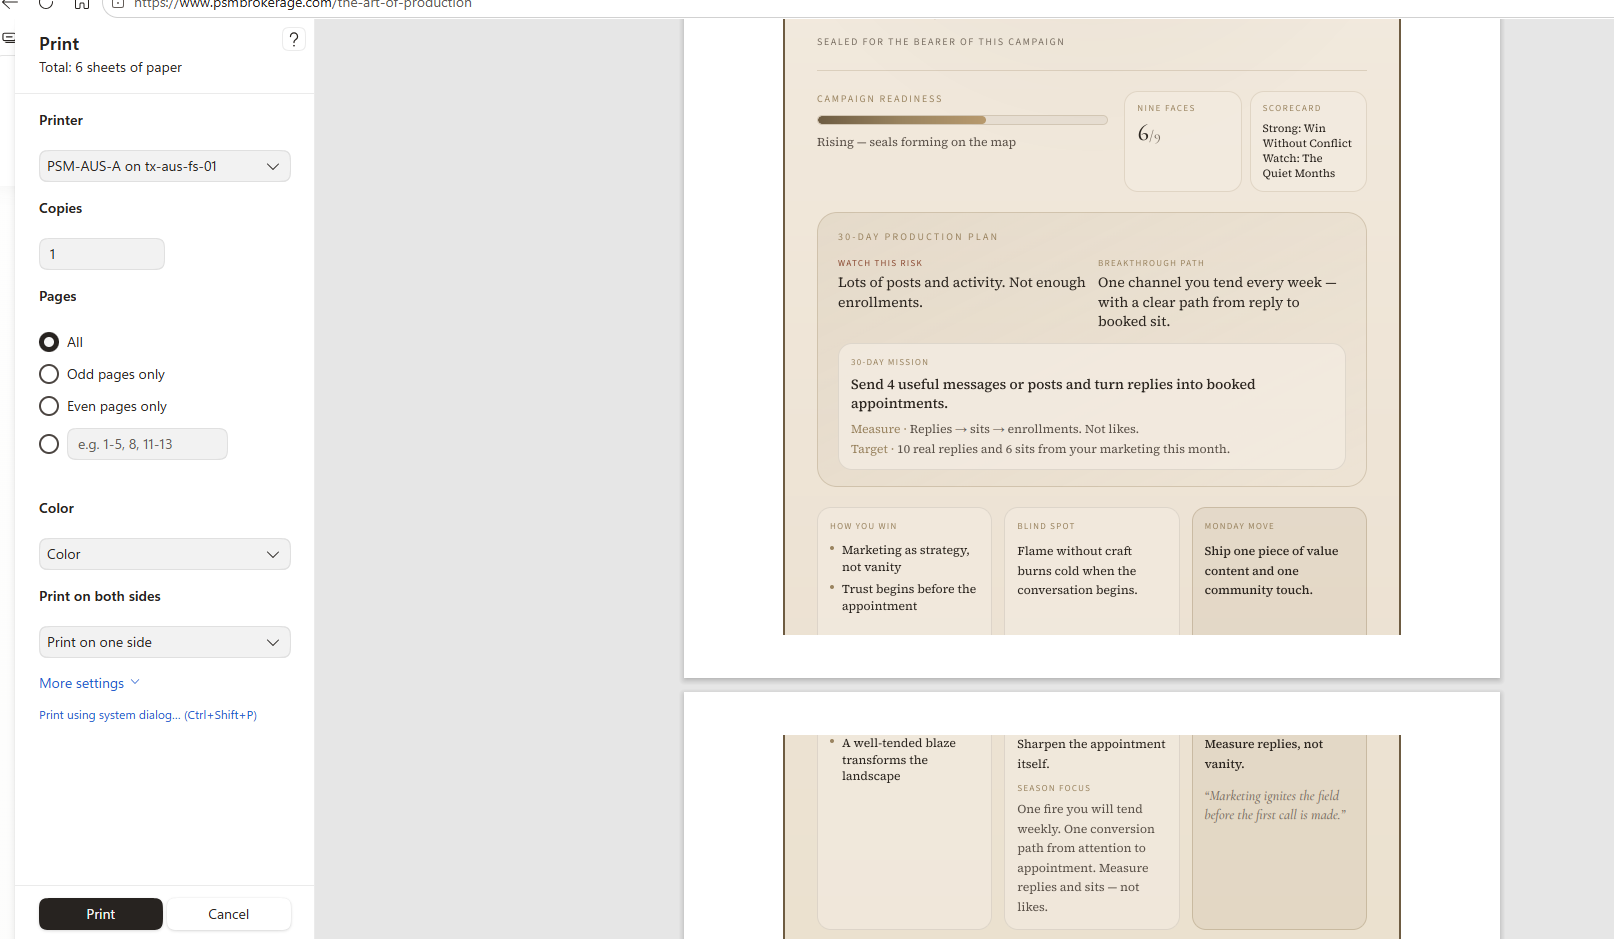
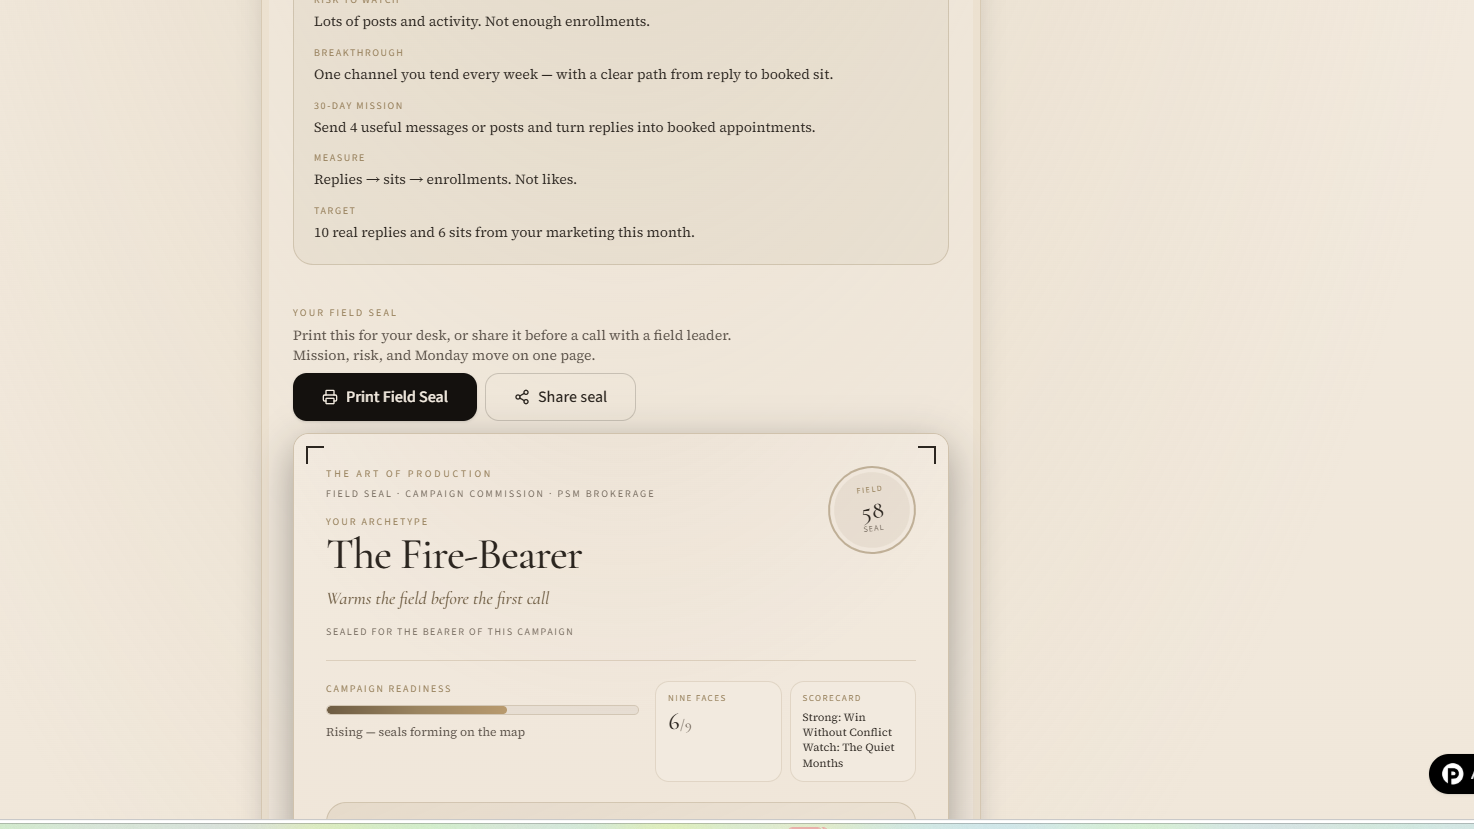
feat: identity first on dossier + gold commission emblem
- Horoscope-style field reading moves to top of dossier
- Field Seal follows identity; forecast/readiness after
- Score number removed from seal; gold star commission emblem
- Soft "field sealed / faces known" language instead of grades

diff --git a/src/routes/dossier.tsx b/src/routes/dossier.tsx
@@ -92,23 +92,91 @@ function DossierPageInner() {
           <SectionKicker>Field dossier · sealed</SectionKicker>
           <h1 className="mt-2 font-display text-3xl text-charcoal sm:text-4xl">
             {lead?.name
-              ? `${lead.name.split(" ")[0]}, the field is marked`
-              : "The field is marked"}
+              ? `${lead.name.split(" ")[0]}, your reading is ready`
+              : "Your reading is ready"}
           </h1>
           <p className="mt-2 font-body text-charcoal-muted leading-relaxed max-w-xl">
-            You walked the path. Seals pressed. Nine faces known. What remains is
-            not another checklist — it is who you stand with when the season
-            opens.
+            First — who you are on the field. Then your Field Seal. Then how to
+            win the next thirty days with allies who already know the ground.
           </p>
         </div>
 
-        <ReadinessPlate
-          score={readiness.score}
-          label={readiness.label}
-          parts={readiness.parts}
-        />
+        {/* Archetype "horoscope" — identity magic first */}
+        <section className="ink-wash rounded-xl border border-brass/35 px-6 py-10 text-center shadow-[var(--shadow-plate)] sm:px-10">
+          <p className="font-ui text-[11px] uppercase tracking-[0.28em] text-brass-bright/90">
+            Your field reading
+          </p>
+          <h2 className="mt-3 font-display text-4xl text-parchment sm:text-5xl">
+            {arch.name}
+          </h2>
+          <p className="mt-3 font-display text-lg italic text-brass-bright/90">
+            {arch.epithet}
+          </p>
+          <p className="mx-auto mt-6 max-w-lg font-body text-parchment/70 leading-relaxed text-base sm:text-lg">
+            {arch.fieldReading}
+          </p>
+          <div className="mx-auto mt-8 max-w-lg space-y-4 text-left">
+            <div className="rounded-lg border border-parchment/10 bg-parchment/[0.04] px-4 py-3">
+              <p className="font-ui text-[10px] uppercase tracking-[0.2em] text-brass-bright/80">
+                At your best
+              </p>
+              <p className="mt-1 font-body text-sm text-parchment/65 leading-relaxed">
+                {arch.atYourBest}
+              </p>
+            </div>
+            <div className="rounded-lg border border-parchment/10 bg-parchment/[0.04] px-4 py-3">
+              <p className="font-ui text-[10px] uppercase tracking-[0.2em] text-brass-bright/80">
+                Where production leaks
+              </p>
+              <p className="mt-1 font-body text-sm text-parchment/65 leading-relaxed">
+                {arch.whenYouStruggle}
+              </p>
+            </div>
+            <div className="rounded-lg border border-brass/30 bg-brass/10 px-4 py-3">
+              <p className="font-ui text-[10px] uppercase tracking-[0.2em] text-brass-bright">
+                This season's omen
+              </p>
+              <p className="mt-1 font-body text-sm text-parchment/80 leading-relaxed">
+                {arch.seasonFocus}
+              </p>
+            </div>
+          </div>
+          <p className="mt-8 font-display text-xl italic text-brass-bright/85">
+            “{arch.seal}”
+          </p>
+        </section>
 
-        <ProductionForecastPanel forecast={arch.forecast} />
+        <div className="grid gap-4 sm:grid-cols-2">
+          <div className="rounded-xl border border-charcoal/10 bg-parchment/70 p-5">
+            <p className="font-ui text-[10px] uppercase tracking-[0.22em] text-brass">
+              Strengths on the field
+            </p>
+            <ul className="mt-3 space-y-2">
+              {arch.strengths.map((s) => (
+                <li
+                  key={s}
+                  className="font-body text-sm text-charcoal leading-snug"
+                >
+                  {s}
+                </li>
+              ))}
+            </ul>
+          </div>
+          <div className="rounded-xl border border-charcoal/10 bg-parchment/70 p-5">
+            <p className="font-ui text-[10px] uppercase tracking-[0.22em] text-brass">
+              Monday move
+            </p>
+            <p className="mt-2 font-body text-sm text-charcoal leading-relaxed">
+              {arch.mondayScript}
+            </p>
+            <p className="mt-4 font-ui text-[10px] uppercase tracking-[0.22em] text-brass">
+              Blind spot
+            </p>
+            <p className="mt-2 font-body text-sm text-charcoal-muted leading-relaxed">
+              {arch.blindSpot}
+            </p>
+          </div>
+        </div>
 
         <FieldCard
           arch={arch}
@@ -118,6 +186,14 @@ function DossierPageInner() {
           agentName={lead?.name}
           weakestChapter={scorecard.weakest}
           strongestChapter={scorecard.strongest}
+        />
+
+        <ProductionForecastPanel forecast={arch.forecast} />
+
+        <ReadinessPlate
+          score={readiness.score}
+          label={readiness.label}
+          parts={readiness.parts}
         />
 
         {/* War council CTA — primary conversion */}
@@ -192,79 +268,6 @@ function DossierPageInner() {
             </a>
           </p>
         </section>
-
-        <section className="ink-wash rounded-xl border border-parchment/10 px-6 py-10 text-center shadow-[var(--shadow-plate)] sm:px-10">
-          <p className="font-ui text-[11px] uppercase tracking-[0.28em] text-brass-bright/90">
-            Producer archetype
-          </p>
-          <h2 className="mt-3 font-display text-4xl text-parchment sm:text-5xl">
-            {arch.name}
-          </h2>
-          <p className="mt-3 font-display text-lg italic text-parchment/70">
-            {arch.epithet}
-          </p>
-          <p className="mx-auto mt-6 max-w-lg font-body text-parchment/65 leading-relaxed">
-            {arch.fieldReading}
-          </p>
-          <div className="mx-auto mt-8 max-w-lg space-y-4 text-left">
-            <div>
-              <p className="font-ui text-[10px] uppercase tracking-[0.2em] text-brass-bright/80">
-                At your best
-              </p>
-              <p className="mt-1 font-body text-sm text-parchment/60 leading-relaxed">
-                {arch.atYourBest}
-              </p>
-            </div>
-            <div>
-              <p className="font-ui text-[10px] uppercase tracking-[0.2em] text-brass-bright/80">
-                Where production leaks
-              </p>
-              <p className="mt-1 font-body text-sm text-parchment/60 leading-relaxed">
-                {arch.whenYouStruggle}
-              </p>
-            </div>
-            <div>
-              <p className="font-ui text-[10px] uppercase tracking-[0.2em] text-brass-bright/80">
-                This season’s focus
-              </p>
-              <p className="mt-1 font-body text-sm text-parchment/70 leading-relaxed">
-                {arch.seasonFocus}
-              </p>
-            </div>
-          </div>
-        </section>
-
-        <div className="grid gap-4 sm:grid-cols-2">
-          <div className="rounded-xl border border-charcoal/10 bg-parchment/70 p-5">
-            <p className="font-ui text-[10px] uppercase tracking-[0.22em] text-brass">
-              Strengths on the field
-            </p>
-            <ul className="mt-3 space-y-2">
-              {arch.strengths.map((s) => (
-                <li
-                  key={s}
-                  className="font-body text-sm text-charcoal leading-snug"
-                >
-                  {s}
-                </li>
-              ))}
-            </ul>
-          </div>
-          <div className="rounded-xl border border-charcoal/10 bg-parchment/70 p-5">
-            <p className="font-ui text-[10px] uppercase tracking-[0.22em] text-brass">
-              Nine Faces known
-            </p>
-            <p className="mt-2 font-display text-2xl text-charcoal tabular-nums">
-              {nineFacesScore}/9
-            </p>
-            <p className="mt-4 font-ui text-[10px] uppercase tracking-[0.22em] text-brass">
-              Monday move
-            </p>
-            <p className="mt-2 font-body text-sm text-charcoal leading-relaxed">
-              {arch.mondayScript}
-            </p>
-          </div>
-        </div>
 
         <NineFacesDeck score={nineFacesScore} />
 

diff --git a/src/components/field-card.tsx b/src/components/field-card.tsx
@@ -25,7 +25,6 @@ export function FieldCard({
   weakestChapter?: string;
   strongestChapter?: string;
 }) {
-  const readinessPct = Math.max(0, Math.min(100, readinessScore));
   // Never show generic placeholders as the hero title
   const bearerRaw = agentName?.trim() ?? "";
   const bearer =
@@ -153,64 +152,75 @@ export function FieldCard({
             </div>
 
             <div
-              className="field-card-seal shrink-0 flex size-[5.5rem] flex-col items-center justify-center rounded-full border-2 border-brass/50 bg-brass/10 text-center shadow-[inset_0_0_0_4px_color-mix(in_oklab,var(--color-parchment)_70%,transparent)]"
+              className="field-card-seal shrink-0 relative flex size-[6.25rem] items-center justify-center"
               aria-hidden
+              title="Campaign commission seal"
             >
-              <span className="font-ui text-[8px] uppercase tracking-[0.2em] text-brass">
-                Field
-              </span>
-              <span className="mt-0.5 font-display text-2xl tabular-nums text-charcoal leading-none">
-                {readinessScore}
-              </span>
-              <span className="font-ui text-[8px] uppercase tracking-[0.14em] text-charcoal-soft">
-                Seal
-              </span>
+              {/* Outer gold ring */}
+              <div className="absolute inset-0 rounded-full bg-gradient-to-br from-[#f0d78c] via-[#c9a227] to-[#8a6a12] p-[3px] shadow-[0_4px_20px_rgba(160,120,30,0.35)]">
+                <div className="h-full w-full rounded-full bg-[var(--color-parchment)] p-[3px]">
+                  <div className="flex h-full w-full flex-col items-center justify-center rounded-full border border-[#c9a227]/50 bg-gradient-to-b from-[#faf3d8] via-[#f0e4b8] to-[#e8d49a]">
+                    {/* Star / general mark */}
+                    <svg
+                      viewBox="0 0 48 48"
+                      className="size-8 text-[#8a6a12]"
+                      fill="currentColor"
+                      aria-hidden
+                    >
+                      <path d="M24 4l3.2 9.8H38l-8.4 6.1 3.2 9.9L24 23.7 15.2 29.8l3.2-9.9L10 13.8h10.8L24 4z" />
+                      <circle cx="24" cy="24" r="3" className="fill-[#c9a227]" />
+                    </svg>
+                    <span className="mt-0.5 font-ui text-[7px] uppercase tracking-[0.22em] text-[#6b5420]">
+                      Commissioned
+                    </span>
+                    <span className="font-ui text-[6px] uppercase tracking-[0.18em] text-[#8a6a12]/90">
+                      Field rank
+                    </span>
+                  </div>
+                </div>
+              </div>
             </div>
           </header>
 
-          <div className="mt-5 grid gap-4 sm:grid-cols-[1.2fr_1fr]">
-            <div>
-              <p className="font-ui text-[10px] uppercase tracking-[0.18em] text-brass">
-                Campaign readiness
+          <div className="mt-5 grid gap-3 sm:grid-cols-3">
+            <div className="rounded-lg border border-brass/25 bg-brass/8 px-3 py-3 sm:col-span-1">
+              <p className="font-ui text-[9px] uppercase tracking-[0.16em] text-brass">
+                Commission status
               </p>
-              <div className="mt-2 h-2.5 overflow-hidden rounded-full border border-brass/25 bg-charcoal/5">
-                <div
-                  className="h-full rounded-full bg-gradient-to-r from-brass-dim via-brass to-brass-bright"
-                  style={{ width: `${readinessPct}%` }}
-                />
-              </div>
-              <p className="mt-2 font-body text-xs text-charcoal-muted leading-relaxed">
+              <p className="mt-1.5 font-display text-sm text-charcoal leading-snug">
+                Field sealed
+              </p>
+              <p className="mt-1 font-body text-[11px] text-charcoal-muted leading-snug">
                 {readinessLabel}
               </p>
             </div>
-            <div className="grid grid-cols-2 gap-2">
-              <div className="rounded-lg border border-brass/20 bg-parchment/80 px-3 py-2.5">
-                <p className="font-ui text-[9px] uppercase tracking-[0.16em] text-brass">
-                  Nine Faces
-                </p>
-                <p className="mt-1 font-display text-2xl tabular-nums text-charcoal leading-none">
-                  {nineFacesScore}
-                  <span className="text-sm text-charcoal-soft">/9</span>
-                </p>
-              </div>
-              <div className="rounded-lg border border-brass/20 bg-parchment/80 px-3 py-2.5">
-                <p className="font-ui text-[9px] uppercase tracking-[0.16em] text-brass">
-                  Scorecard
-                </p>
-                <p className="mt-1 font-body text-[11px] text-charcoal leading-snug">
-                  {strongestChapter ? (
-                    <>
-                      Strong: {strongestChapter}
-                      <br />
-                    </>
-                  ) : null}
-                  {weakestChapter ? (
-                    <>Watch: {weakestChapter}</>
-                  ) : (
-                    "Campaign sealed"
-                  )}
-                </p>
-              </div>
+            <div className="rounded-lg border border-brass/20 bg-parchment/80 px-3 py-3">
+              <p className="font-ui text-[9px] uppercase tracking-[0.16em] text-brass">
+                Faces known
+              </p>
+              <p className="mt-1.5 font-body text-sm text-charcoal leading-snug">
+                {nineFacesScore === 9
+                  ? "Full table — nine client types"
+                  : `${nineFacesScore} of nine faces marked`}
+              </p>
+            </div>
+            <div className="rounded-lg border border-brass/20 bg-parchment/80 px-3 py-3">
+              <p className="font-ui text-[9px] uppercase tracking-[0.16em] text-brass">
+                Field note
+              </p>
+              <p className="mt-1.5 font-body text-[11px] text-charcoal leading-snug">
+                {strongestChapter ? (
+                  <>
+                    Strength: {strongestChapter}
+                    <br />
+                  </>
+                ) : null}
+                {weakestChapter ? (
+                  <>Sharpen: {weakestChapter}</>
+                ) : (
+                  "Path complete"
+                )}
+              </p>
             </div>
           </div>
 
